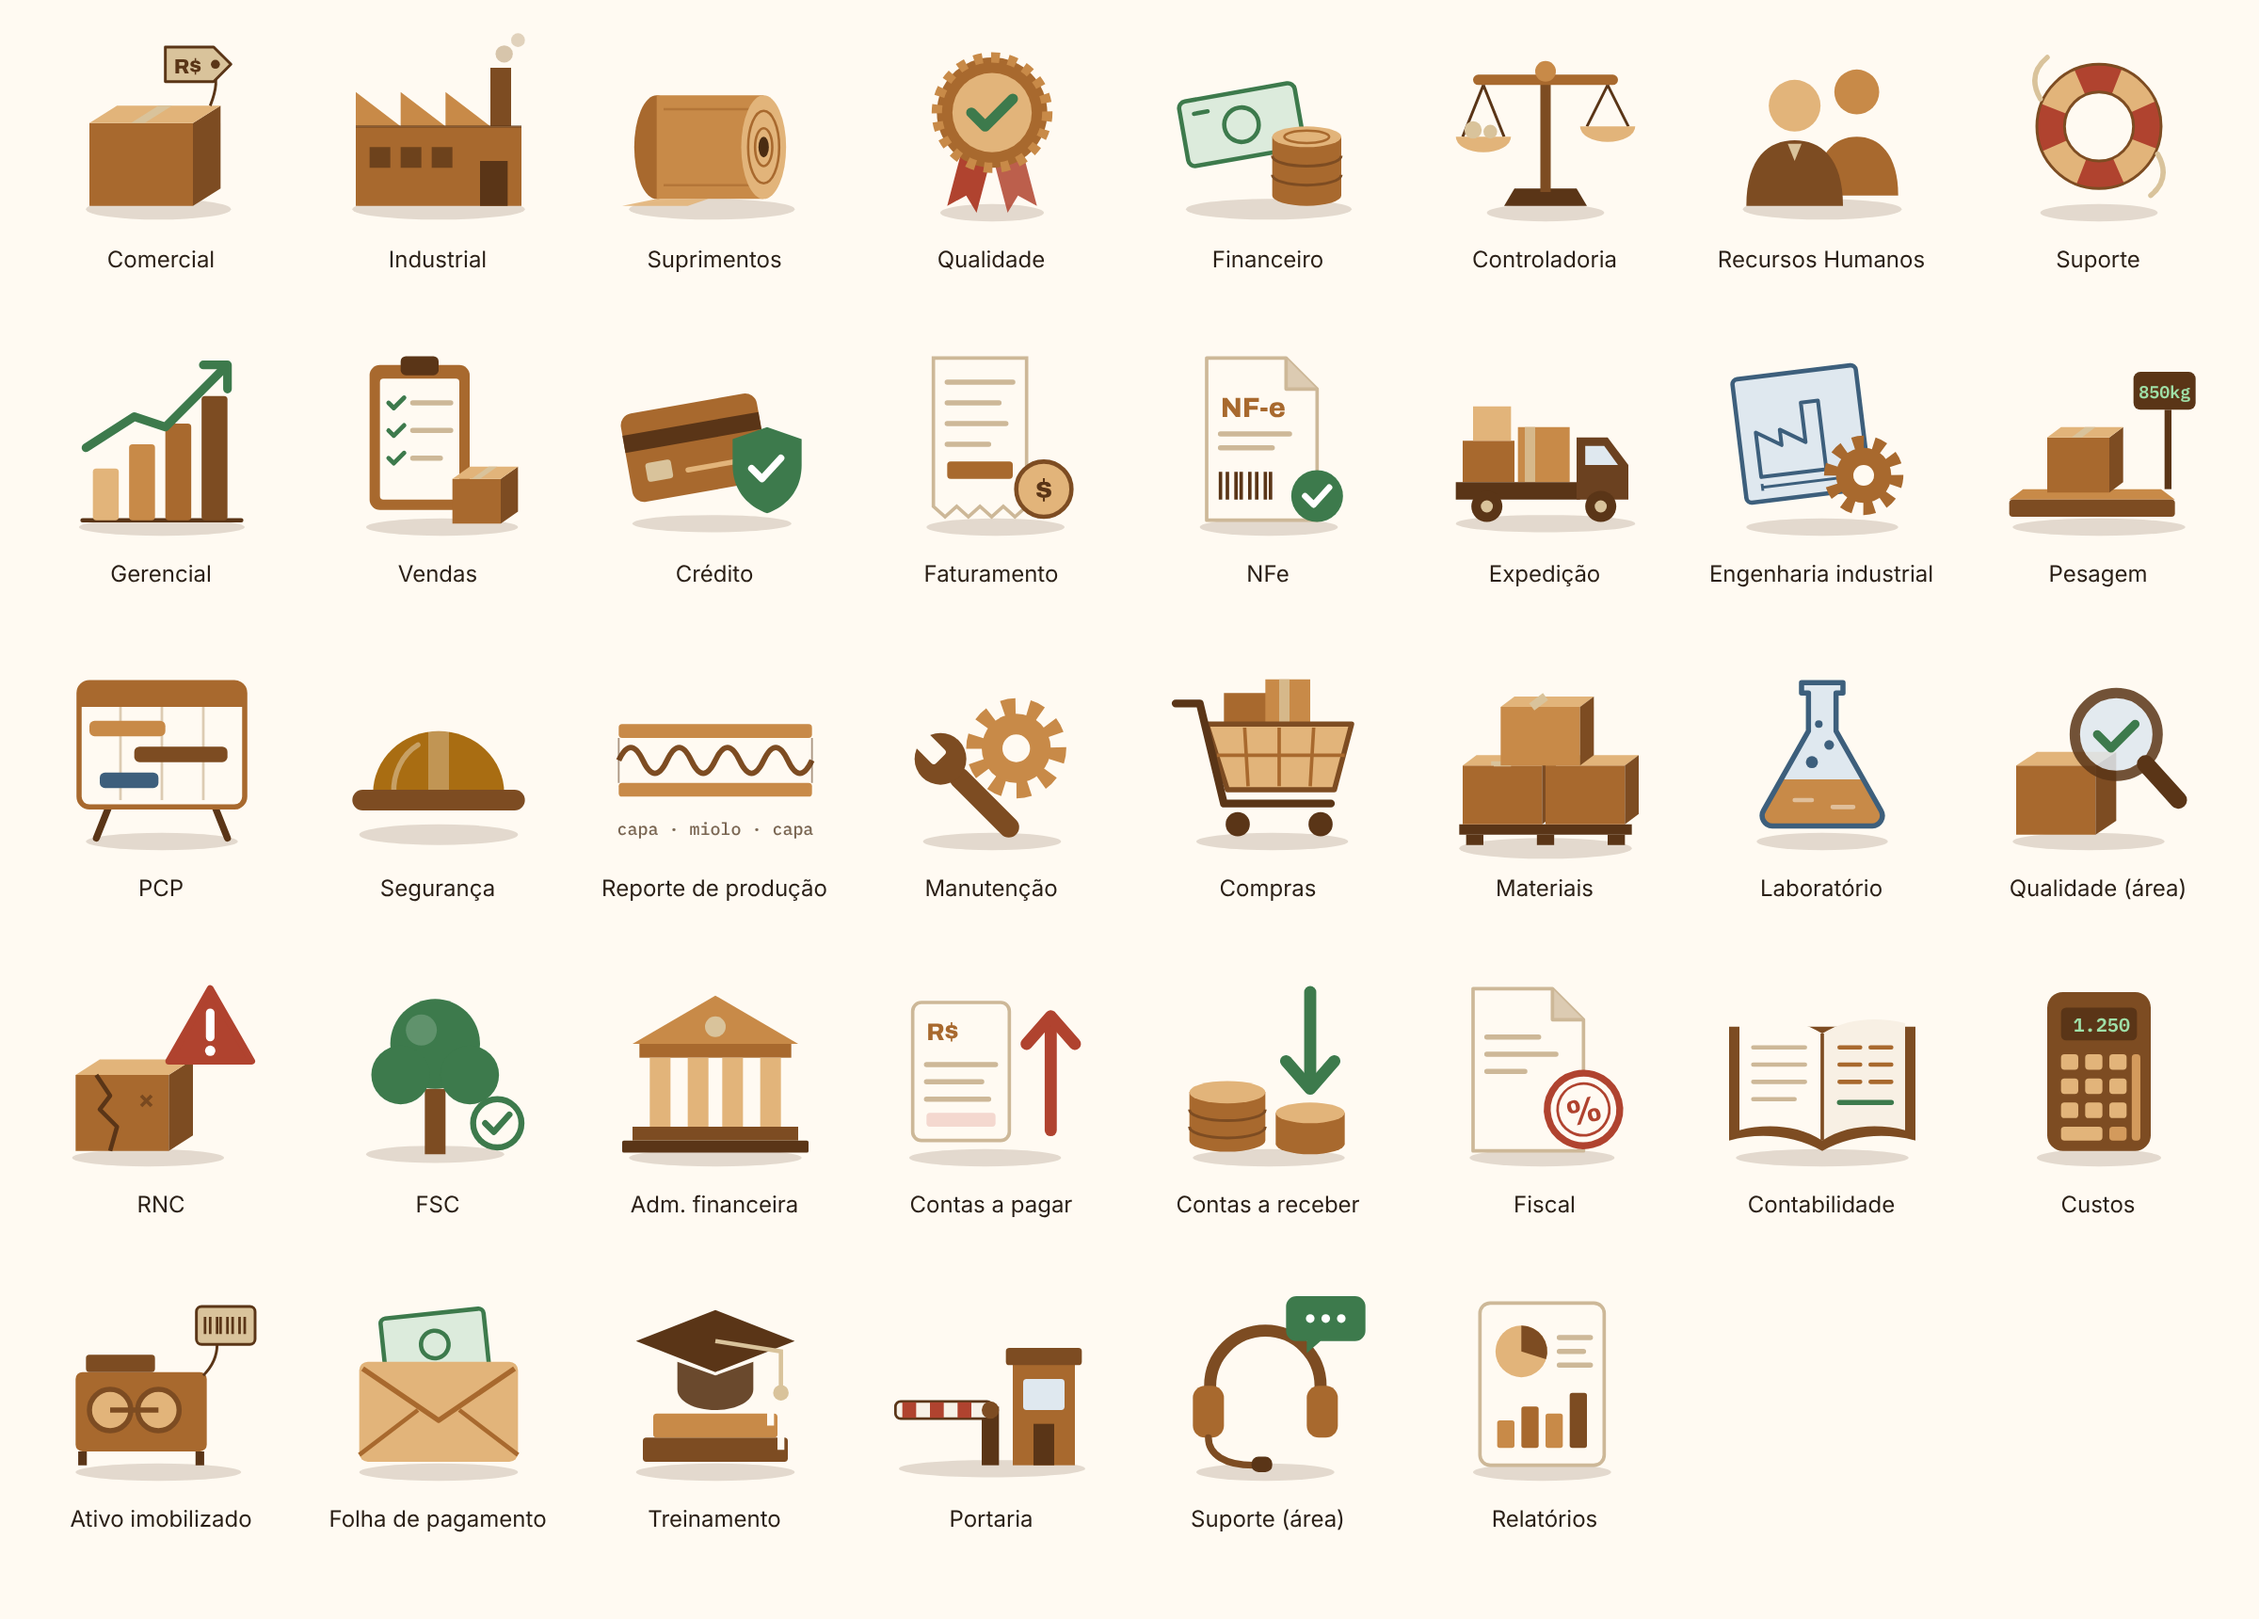
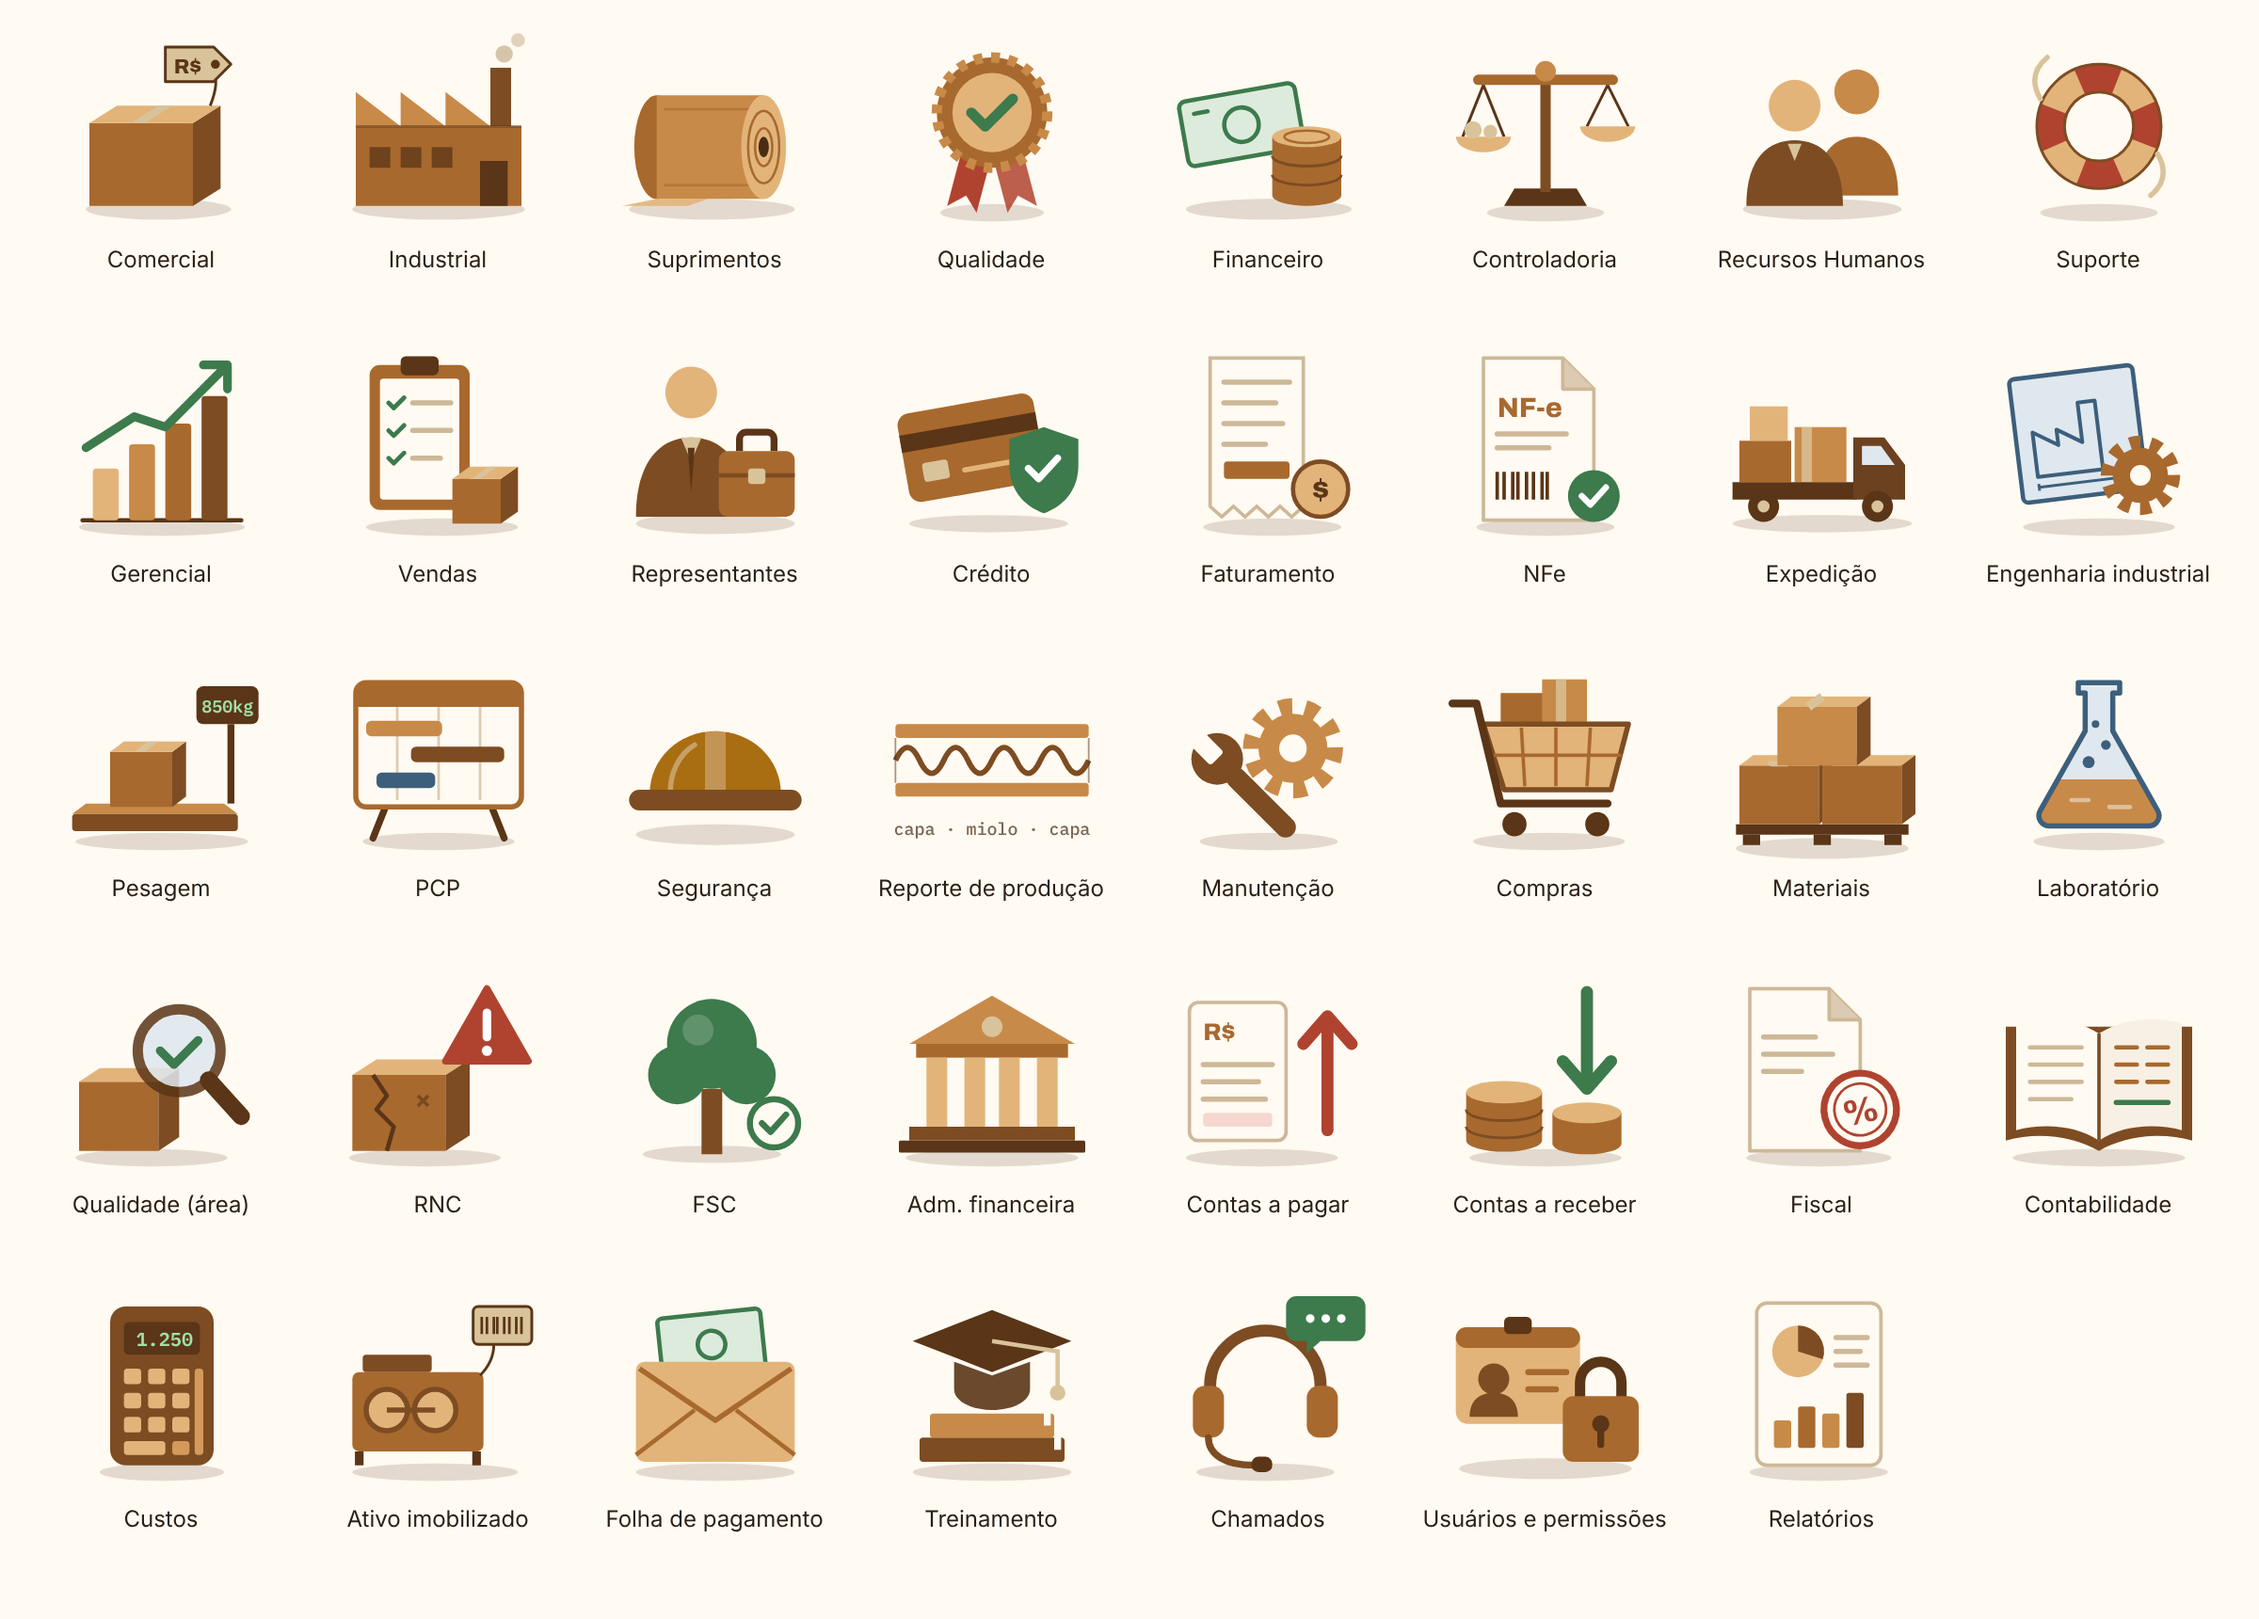
Suporte: áreas Chamados e Usuários e permissões; tira Portaria
Claude-Session: https://claude.ai/code/session_015kL8p4eCaL1huCADCSMStj

diff --git a/prototipo/tela-inicial-e-comercial.html b/prototipo/tela-inicial-e-comercial.html
@@ -931,17 +931,19 @@ table.cli{width:100%;border-collapse:collapse;min-width:760px;font-size:14px}
       <path d="M60 32 L98 38 V58" fill="none" stroke="var(--tape)" stroke-width="2.5"/>
       <circle cx="98" cy="62" r="4.5" fill="var(--tape)"/>
     </g>
-    <!-- Portaria: guarita e cancela -->
-    <g id="il-cancela">
-      <ellipse cx="60" cy="106" rx="54" ry="5" fill="var(--shadow)"/>
-      <rect x="72" y="44" width="36" height="60" fill="var(--k3)"/>
-      <rect x="68" y="36" width="44" height="10" rx="2" fill="var(--k4)"/>
-      <rect x="78" y="54" width="24" height="18" rx="2" fill="var(--info-soft)"/>
-      <rect x="84" y="80" width="12" height="24" fill="var(--k5)"/>
-      <rect x="54" y="70" width="10" height="34" fill="var(--k5)"/>
-      <rect x="4" y="67" width="56" height="10" rx="3" fill="#f7f1e7" stroke="var(--k5)" stroke-width="1.5"/>
-      <path d="M8 72 H56" stroke="var(--bad)" stroke-width="9" stroke-dasharray="8 8"/>
-      <circle cx="59" cy="72" r="5" fill="var(--k4)"/>
+    <!-- Usuários e permissões: crachá e cadeado -->
+    <g id="il-usuarios">
+      <ellipse cx="60" cy="106" rx="50" ry="6" fill="var(--shadow)"/>
+      <rect x="8" y="24" width="72" height="56" rx="7" fill="var(--k1)"/>
+      <rect x="8" y="24" width="72" height="12" rx="6" fill="var(--k3)"/>
+      <rect x="36" y="18" width="16" height="10" rx="3" fill="var(--k5)"/>
+      <circle cx="30" cy="54" r="9" fill="var(--k4)"/>
+      <path d="M16 76 c0 -10 6 -14 14 -14 s14 4 14 14z" fill="var(--k4)"/>
+      <path d="M50 50 h22 M50 60 h16" stroke="var(--k3)" stroke-width="3.5" stroke-linecap="round"/>
+      <path d="M80 66 v-10 a12 12 0 0 1 24 0 v10" fill="none" stroke="var(--k5)" stroke-width="6"/>
+      <rect x="70" y="64" width="44" height="38" rx="6" fill="var(--k3)"/>
+      <circle cx="92" cy="80" r="5" fill="var(--k5)"/>
+      <path d="M92 82 v10" stroke="var(--k5)" stroke-width="4" stroke-linecap="round"/>
     </g>
     <!-- Suporte (área): fone de atendimento -->
     <g id="il-fone">
@@ -1122,9 +1124,9 @@ const I = {
   seguranca:'<path d="M3 17h18M4.5 17a7.5 7.5 0 0 1 15 0"/><path d="M10 9.7V6.5h4v3.2M3 17v2.5h18V17"/>',
   reporte:'<rect x="5" y="4" width="14" height="17.5" rx="2"/><path d="M9 2.5h6v3H9zM8.5 11h7M8.5 14.5h7M8.5 18h4"/>',
   manutencao:'<path d="M15 3.5a5 5 0 0 0-4.6 6.9L3.5 17.3a2.1 2.1 0 0 0 3 3l6.9-6.9A5 5 0 0 0 20.5 9l-3 3-3.5-1-1-3.5 3-3a5 5 0 0 0-1-1z"/>',
-  portaria:'<path d="M3 21V8h4v13M7 11h14M7 11l3 3M11 11l3 3M15 11l3 3"/><path d="M2 21h20"/>',
 };
-Object.assign(I, { admfin:I.financeiro, materiais:I.estoque, custos:I.orcamentos, laboratorio:I.amostras, engind:I.engenharia, relatorios:I.rel });
+I.usuarios = '<circle cx="9" cy="7.5" r="3.5"/><path d="M2.5 20c.6-3.6 3.2-6 6.5-6 1.2 0 2.3.3 3.2.8"/><rect x="14" y="14" width="8" height="7" rx="1.5"/><path d="M15.5 14v-2a2.5 2.5 0 0 1 5 0v2"/>';
+Object.assign(I, { chamados:I.suporte, admfin:I.financeiro, materiais:I.estoque, custos:I.orcamentos, laboratorio:I.amostras, engind:I.engenharia, relatorios:I.rel });
 const svg = (k) => `<svg viewBox="0 0 24 24" fill="none" stroke="currentColor" stroke-width="1.7" stroke-linecap="round" stroke-linejoin="round" aria-hidden="true">${I[k]}</svg>`;
 
 /* ── Módulos (exemplos de protótipo) ── */
@@ -1174,8 +1176,8 @@ const MODULOS = [
     {k:'treinamento', nome:'Treinamento', d:'Cursos e registros de treinamento'},
   ]},
   {k:'suporte', nome:'Suporte', areas:[
-    {k:'portaria', nome:'Portaria', d:'Entrada de pessoas e veículos'},
-    {k:'suporte', nome:'Suporte', d:'Chamados de ajuda'},
+    {k:'chamados', nome:'Chamados', d:'Pedidos de ajuda e melhorias dos usuários'},
+    {k:'usuarios', nome:'Usuários e permissões', d:'Criar usuários e definir o que cada um vê'},
   ]},
   {k:'indicadores', nome:'Gerencial', badge:'novo', calm:true, areas:[
     {k:'relatorios', nome:'Relatórios', d:'Margem, refile, conversão e vendas'},
@@ -1231,6 +1233,8 @@ const RELATORIOS = [
   {id:'inadimplencia', nome:'Inadimplência', mod:'financeiro', area:'receber', d:'Clientes com títulos vencidos'},
   {id:'pagar-semana', nome:'Contas a pagar da semana', mod:'financeiro', area:'pagar', d:'O que vence nos próximos 7 dias'},
   {id:'custo-maquina', nome:'Custo por máquina', mod:'controladoria', area:'custos', d:'Custo hora e por metro'},
+  {id:'chamados-sit', nome:'Chamados por situação', mod:'suporte', area:'chamados', d:'Abertos, em andamento e resolvidos'},
+  {id:'acessos', nome:'Usuários e acessos', mod:'suporte', area:'usuarios', d:'Quem pode ver cada módulo e área'},
   {id:'horas-extras', nome:'Horas extras por setor', mod:'recursos-humanos', area:'folha', d:'Horas e valores do mês'},
   {id:'margem-vendedor', nome:'Margem por vendedor', mod:'gerencial', area:'relatorios', d:'Margem e volume de cada vendedor'},
   {id:'margem-cliente', nome:'Margem por cliente', mod:'gerencial', area:'relatorios', d:'Rentabilidade de cada cliente'},
@@ -1493,7 +1497,7 @@ const CX_AREA = {
   admfin:'il-banco', pagar:'il-pagar', receber:'il-receber',
   fiscal:'il-fiscal', contabilidade:'il-livro', custos:'il-calculadora', ativo:'il-ativo',
   folha:'il-envelope', treinamento:'il-diploma',
-  portaria:'il-cancela', suporte:'il-fone',
+  chamados:'il-fone', usuarios:'il-usuarios',
   relatorios:'il-relatorio',
 };
 /* pendências de exemplo por área */

diff --git a/README.md b/README.md
@@ -53,7 +53,7 @@ do sistema (com IA) respeitando o que cada usuário pode acessar.
   | Financeiro | Administração financeira, Contas a pagar, Contas a receber |
   | Controladoria | Fiscal, Contabilidade, Custos, Ativo imobilizado |
   | Recursos Humanos | Folha de pagamento, Treinamento |
-  | Suporte | Portaria, Suporte |
+  | Suporte | Chamados, Usuários e permissões |
   | Gerencial | Relatórios |
 
   - Cartões **compactos** (metade do tamanho original): ícone ao lado do nome e, embaixo,
@@ -101,7 +101,7 @@ do sistema (com IA) respeitando o que cada usuário pode acessar.
   para o Início), título do módulo **pequeno** (ícone e nome na mesma linha do Voltar, sem frases de apoio) e
   uma grade de cartões compactos, um por área. Cada área também tem o **seu desenho**
   ao passar o mouse (ex.: caminhão com caixas em Expedição, capacete em Segurança,
-  balança com display em Pesagem, frasco em Laboratório, cancela em Portaria) e o selo
+  balança com display em Pesagem, frasco em Laboratório, crachá com cadeado em Usuários e permissões) e o selo
   de pendências de cada área.
 - No sistema real, cada pessoa vê só as áreas liberadas para ela.
 
@@ -126,6 +126,12 @@ do sistema (com IA) respeitando o que cada usuário pode acessar.
     as minimizadas); clicar traz de volta;
   - "–" minimiza e "✕" fecha, sempre visíveis.
 - Barra de título da janela numa linha só: ícone pequeno, nome e o caminho ao lado.
+
+### Suporte
+- Módulo de administração do sistema, usado por quem cuida do ERP.
+- **Chamados:** onde chegam os pedidos de ajuda e de melhoria dos usuários (inclusive os
+  pedidos de análise feitos pelo assistente de busca da tela inicial).
+- **Usuários e permissões:** criar usuários e definir quais módulos e áreas cada um vê.
 
 ### Comercial › Vendas (tópicos definidos até agora)
 - **Cadastros:** Prospects e clientes; Endereços de entrega.
